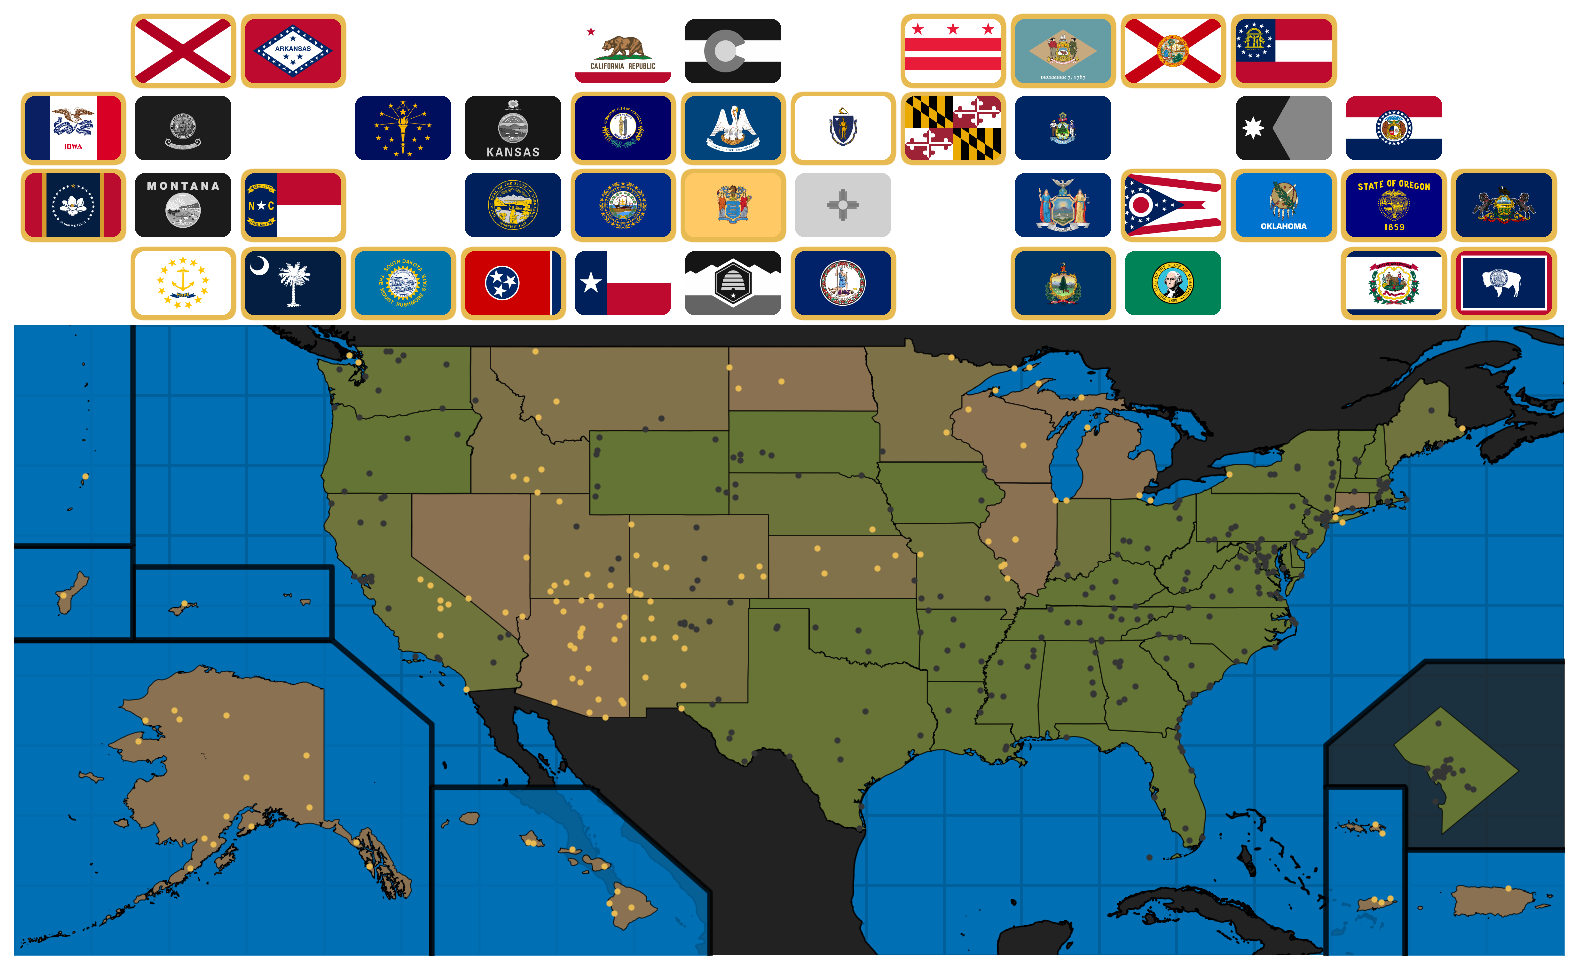
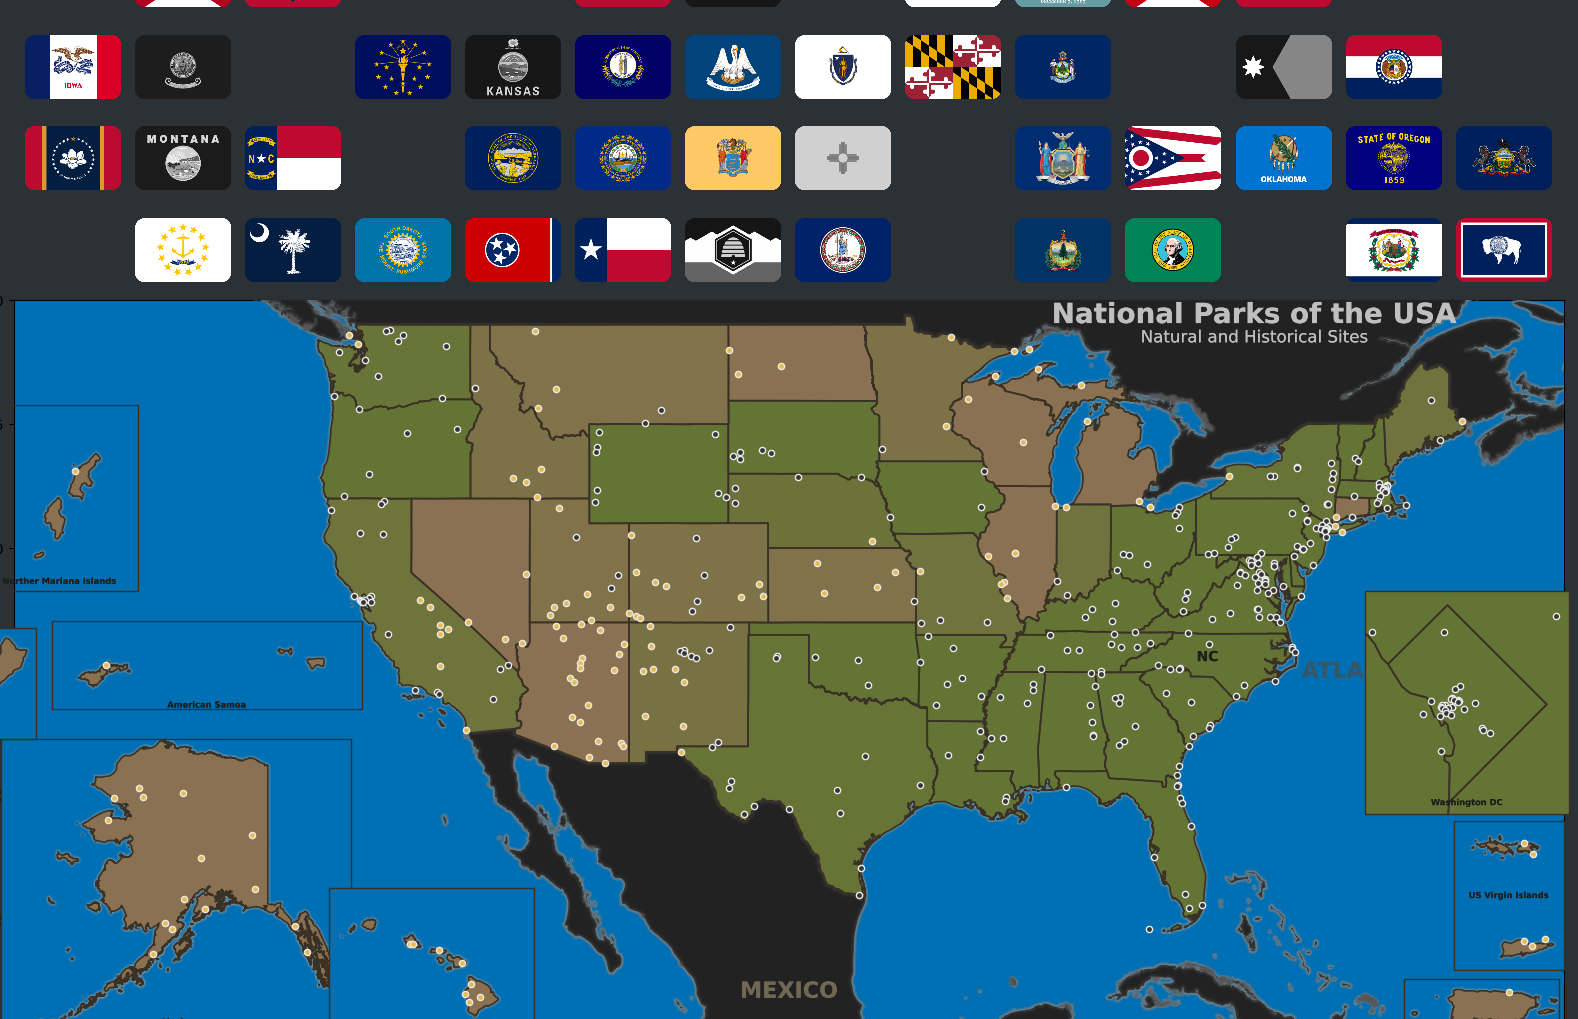
update map

diff --git a/main.py b/main.py
@@ -12,7 +12,7 @@ from utils.file_utils import ensure_directory_exists
 # Map Directory
 # US NP | Germany | Europe | Iran |
 #  "us" |    "de" |   "eu" | "ir" |
-PATH = "ir"
+PATH = "us"
 
 small_map = True
 small_gif = False
